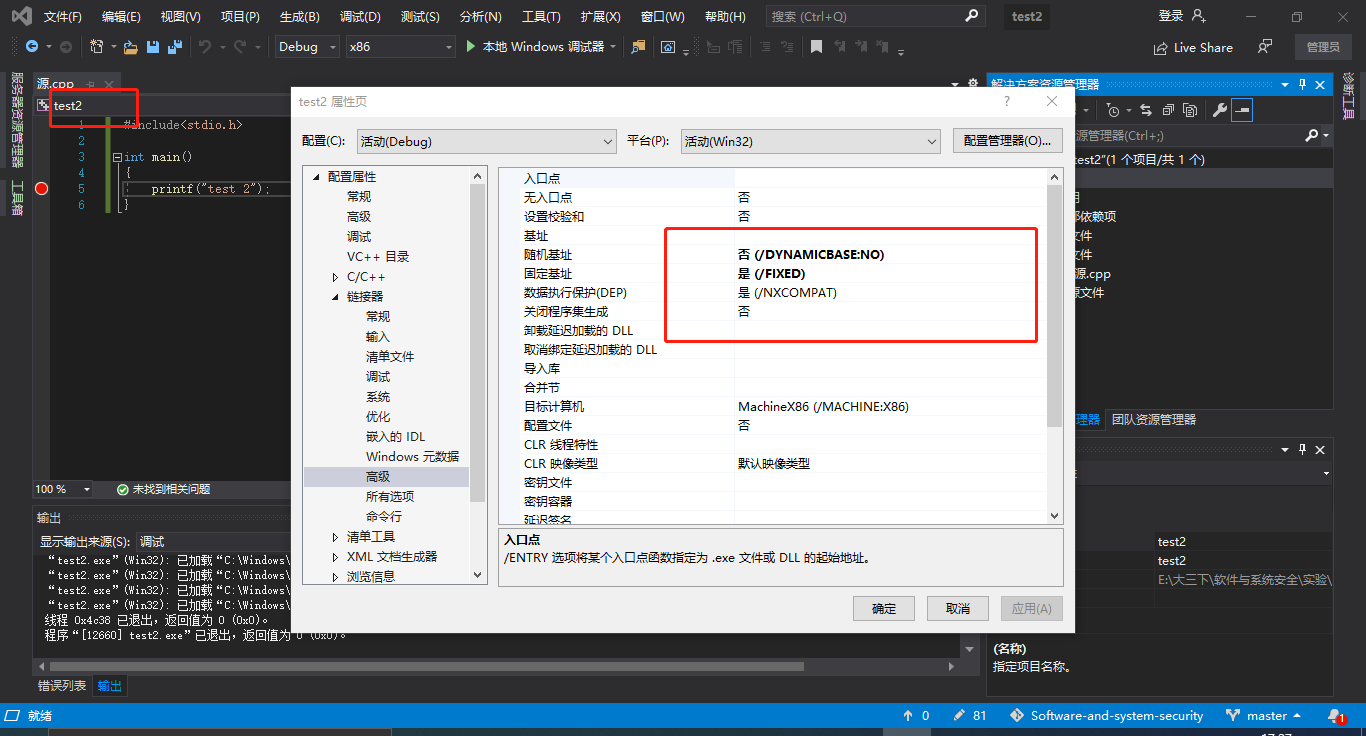
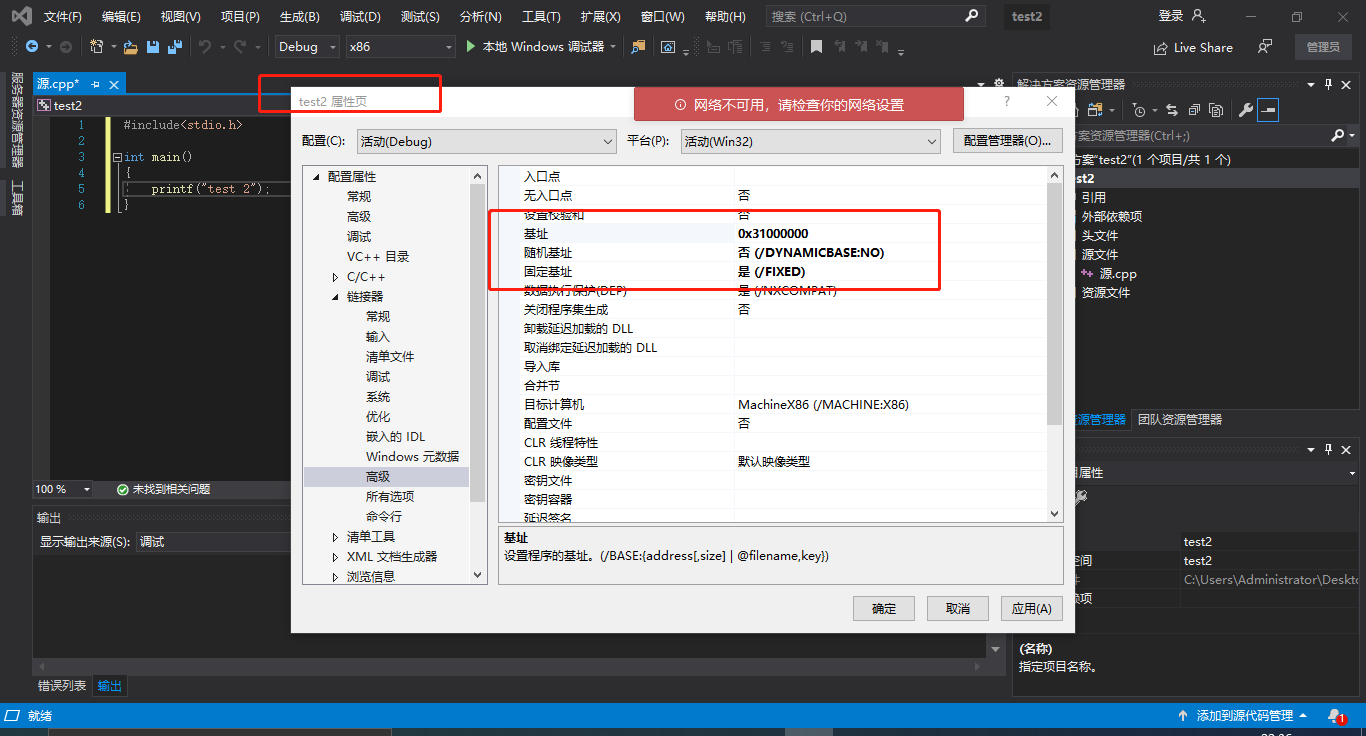
windbg实验完成

diff --git a/缓存区溢出漏洞/README.md b/缓存区溢出漏洞/README.md
@@ -53,11 +53,16 @@
 
 ## 课后实验
 
+### 实验一 阅读
+
 + 阅读VirtualAlloc、VirtualFree、VirtualProtect等函数的官方文档。
 
   + [virtual protect](https://docs.microsoft.com/en-us/windows/win32/api/memoryapi/nf-memoryapi-virtualprotect)
   + [virtual free](https://docs.microsoft.com/en-us/windows/win32/api/memoryapi/nf-memoryapi-virtualfree)
   + [virtual alloc](https://docs.microsoft.com/en-us/windows/win32/api/memoryapi/nf-memoryapi-virtualalloc)
+
+
+### 实验二 malloc
 
 + 编程使用malloc分配一段内存，测试是否这段内存所在的整个4KB都可以写入读取。
 
@@ -82,7 +87,8 @@
 
     ![](./image/1.png)
 
-    
+
+### 实验三 virtualAlloc
 
 + 使用VirtualAlloc分配一段，可读可写的内存，写入内存，然后将这段内存改为只读，再读数据和写数据，看是否会有异常情况。然后VirtualFree这段内存，再测试对这段内存的读写释放正常。
 
@@ -292,6 +298,9 @@
 
   + 结论3：内存释放后将无法读取和写入
 
+
+### 实验四 内存地址保护
+
 + 验证不同进程的相同的地址可以保存不同的数据。（1）在VS中，设置固定基地址，编写两个不同可执行文件。同时运行这两个文件。然后使用调试器附加到两个程序的进程，查看内存，看两个程序是否使用了相同的内存地址；（2）在不同的进程中，尝试使用VirtualAlloc分配一块相同地址的内存，写入不同的数据。再读出。
 
   ```c
@@ -317,7 +326,7 @@
 
     ![](./image/t2.png)
 
-  + 执行上述两段代码，查看结果，发现两个程序的地址完全不同，可见不同进程的相同的地址可以保存不同的数据
+  + 执行上述两段代码，查看结果，发现两个程序的地址完全相同，但是正常执行，可见不同进程的相同的地址可以保存不同的数据
 
     ![](./image/t1s.png)
 
@@ -327,35 +336,176 @@
 
     ```c
     #include <windows.h>
-    
+    #include<stdio.h>
     void main()
     {
-     SYSTEM_INFO sf;
-     GetSystemInfo(&sf);
     
-     //分配内存，标记为提交、可读可写
-     LPVOID lpvBase = VirtualAlloc(
-            NULL,                 // system selects address
-            4096,     // size of allocation
-            MEM_COMMIT,   // allocate reserved pages
-            PAGE_READWRITE);       // protection = no access
-       if (lpvBase == NULL )
-       return;
+        SYSTEM_INFO sSysInfo;	// Useful information about the system
+        GetSystemInfo(&sSysInfo);
+        DWORD dwPageSize = sSysInfo.dwPageSize;
+    
+        //分配内存，标记为提交、可读可写
+        LPVOID lpvBase = VirtualAlloc(
+            (LPVOID)0x30000000,	// The starting address of the region to allocate
+            dwPageSize,
+            MEM_COMMIT | MEM_RESERVE,
+            PAGE_READWRITE);
+        if (lpvBase == NULL)
+            return;
+    
+        LPTSTR ustr;
+        ustr = (LPTSTR)lpvBase;
+      
+        for (DWORD i = 0; i < dwPageSize; i++)
+        {
+            ustr[i] = '1'; //test 1用1 ，test2用2
+            printf("%c", ustr[i]);
+        }
+       
     
     
-     //向该内存里面写些东西
-     unsigned char *ustr=(unsigned char *)lpvBase;
-     ustr[0]=0x89;
     
     
-     
+        return;
     
-    
-     return;
-    
-    } 
-    
+    }
     ```
+
+  + 两个程序的结果如下
+  
+    ![](./image/tt1.png)
+  
+    ![](./image/tt2.png)
+  
+  + 可见，相同的内存存入了不同的数据，具有内存保护
+
+### 实验五 windbg
+
++ 配置一个Windbg双机内核调试环境，查阅Windbg的文档，了解（1）Windbg如何在内核调试情况下看物理内存，也就是通过物理地址访问内存（2）如何查看进程的虚拟内存分页表，在分页表中找到物理内存和虚拟内存的对应关系。然后通过Windbg的物理内存查看方式和虚拟内存的查看方式，看同一块物理内存中的数据情况。
+
+  + 装VmWare虚拟机，并自行安装好Windows7系统，虚拟机关闭状态下添加一个管道虚拟串口，此处需要删除打印机，否则串口之间冲突。
+
+    ![](./image/w1.png)
+
+  + 开启虚拟机中的Windows7系统，然后以管理员身份运行CMD命令行，输入`bcdedit`命令，可以查看到系统的当前启动项，如果是新的系统，则只会有一个 `{current}` 的启动项。
+
+    ![](./image/w2.png)
+
+  + 接着我们连续执行下方的三条命令，依次建立启动项，并激活调试模式。
+
+    ```bash
+    
+    bcdedit /copy {current} /d "Windwos7"
+    bcdedit /debug ON
+    bcdedit /bootdebug ON
+    bcdedit /timeout 10
+    ```
+
+    ![](./image/w3.png)
+
+  + 最后查看一下当前调试配置选项，执行命令 `bcdedit /dbgsettings`，显示出使用的第一个串口，波特率为115200bps，保持默认不需要修改。
+
+    ![](./image/w4.png)
+
+  + 配置完成后，重新启动系统，在开机的时候选择`Windows7 [启用调试程序]`则系统会黑屏，说明已经正常进入调试模式了。
+
+    ![](./image/w5.png)
+
+  + 接着回到物理机上面，我们在命令行中切换到WinDBG的根目录下，并执行以下命令，即可连接虚拟机串口进行调试了。
+    执行命令 `Windbg.exe -b -k com:port=\\.\pipe\com_1,baud=115200,pipe` 如下图，已经成功连接上了。
+
+    ![](./image/w6.png)
+
+  + 为了方便调试，可以通过【File菜单】加载一下符号文件，也可以按下【Ctrl+S】并输入。
+    输入命令 `srv*c:\symbols*http://msdl.microsoft.com/download/symbols` 自动下载符号保存到C盘下。
+
+    ![](./image/w7.png)
+
+  + 到此为止，我们的内核调试环境已经配置并能够独立工作了，接下来，我们将手动编译一个简单的驱动文件，并通过WinDBG对其进行调试分析。首先我们需要编写一个简单的驱动程序，由于我们的驱动程序比较的简单，所以我们只能够从DriverEntry驱动开始执行之前下一个断点，此处我们可以通过内联汇编的方式手动加入一个断点，其最终代码如下所示。
+
+    ```c
+    
+    #include <ntddk.h>
+     
+    VOID UnDriver(PDRIVER_OBJECT driver)
+    {
+        DbgPrint(("Uninstall Driver Is OK \n"));
+    }
+     
+    NTSTATUS DriverEntry(IN PDRIVER_OBJECT Driver,PUNICODE_STRING RegistryPath)
+    {
+        __asm{ int 3 }                                // 内联汇编添加 int 3 断点
+        DbgPrint(("hello lyshark \n"));
+        Driver->DriverUnload = UnDriver;
+        return STATUS_SUCCESS;
+    }
+    ```
+
+  + 现在我们启动Windows7系统，并通过上面的方法使之与WinDBG联机，当WinDBG断下时，手动添加符号文件。
+
+    ![](./image/w8.png)
+
+  + 添加符号完成以后，在命令窗口输入g并按下回车键，过程中可能需要按下多次g键，使Windows系统正常加载并运行。
+
+    ![](./image/w9.png)
+
+  + 当Windows系统加载完成以后，拖入我们的驱动文件`wdk.sys`，并通过驱动加载工具加载运行，此时Windows系统会卡死，回到WinDBG中发现已经可以进行源码调试
+
+    ![](./image/w10.png)
+
+    ![](./image/w11.png)
+
+  + 基于上面搭建的调试模式进行物理内存的查看
+
+  + 打开记事本，输入一串字符串（那就”Hello World!“吧。。。）
+
+    ![](./image/w12.png)
+
+  + 然后点击WinDbg的break按钮，使操作系统断下来
+
+    ![](./image/w13.png)
+
+  + 使用 !process 0 0 命令查看当前系统所有进程信息，找到记事本所在进程
+
+    ![](./image/w14.png)
+
+  + 可以看出记事本进程的进程块起始地址为882e4030,因为当前是在系统进程断下，所以此时我们要切换到记事本的进程,使用.process -i 882e4030(进程块地址)命令，在输入 g 命令将WinDbg当前调试进程切换到notepad.exe
+
+    ![](./image/w15.png)
+
+  + 然后我们使用s -u命令再记事本进程中搜索 Hello World! 这个字符串`s -u 0x00000000 L0x01000000 "Hello World!"`
+
+    ![](./image/w16.png)
+
+    
+
+  + 在上面两个地址处都保存有字符串 Hello World！ 我们取第一个虚拟地址0x001ee148，求出此地址在计算机内存内所对应的物理地址。
+    
+  + 以下是Win32 X86下虚拟地址的构成，在开启PAE模式的情况下，一个32位的虚拟地址有以下几部分组成：
+  
+    ![](./image/w17.png)
+  
+  + 0x001ee148这个虚拟地址按照上图进行分解可得----- 00(0)-000000000(0)-111101110(0x1EE)-000101001000(0x148)
+  
+  + CPU中有一个CR3寄存器保存了当前进程的页目录表的的基址 通过 r cr3命令查看cr3寄存器的值，得到cr3=7eaf6540，即为页目录的基址（注意，cr3保存的是物理地址，用WinDbg查看物理地址时要在最前面加上！符号）。因为页目录表索引为0，所以使用 !dq 7eaf6540+0*8查看页目录的基址
+  
+    ![](./image/w18.png)
+  
+  + 页目录和页表的每一项都是8个字节，其中第12-31位保存了页表的基址。从之前对虚拟地址的分解可知，页目录项的索引为0，也就是是第一项，所以页目录的基址为3a4b6000，而页目录索引为0
+  
+    使用！dq 3a4b6000+0*8查看页表的基址
+  
+    ![](./image/w19.png)
+  
+  + 使用！dq db9e000+8*0x1ee找到页基址
+  
+    ![](./image/w20.png)
+  
+  + 可以得到物理地址所在页基址为3cefc000，而字节索引为0x148，再使用！db 3cefc000+0x148查看该地址的内容
+  
+    ![](./image/w21.png)
+  
+  + 这正好是我们的Hello World字符串，所以我们成功地根据虚拟地址通过分页机制找到了物理地址。
 
 ## 实验参考资料
 
@@ -367,4 +517,6 @@
 + [malloc](http://c.biancheng.net/cpp/html/137.html)
 + [虚拟内存详解](https://blog.csdn.net/rankun1/article/details/50449512)
 + [设置基址](https://blog.csdn.net/HappyBear1995/article/details/51126998)
++ [虚拟地址到物理地址的转换](https://blog.csdn.net/rikeyone/article/details/84672000)
++ [windbg](https://blog.csdn.net/weixin_30834019/article/details/95482417)
 
